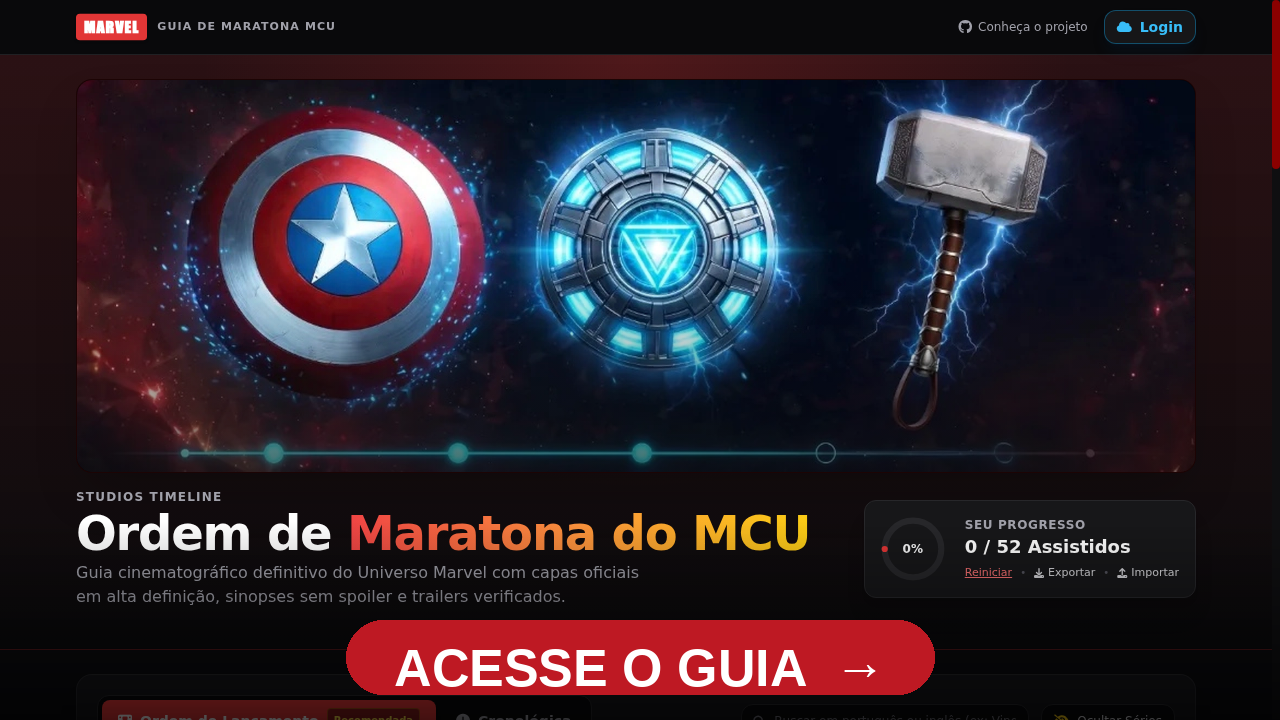
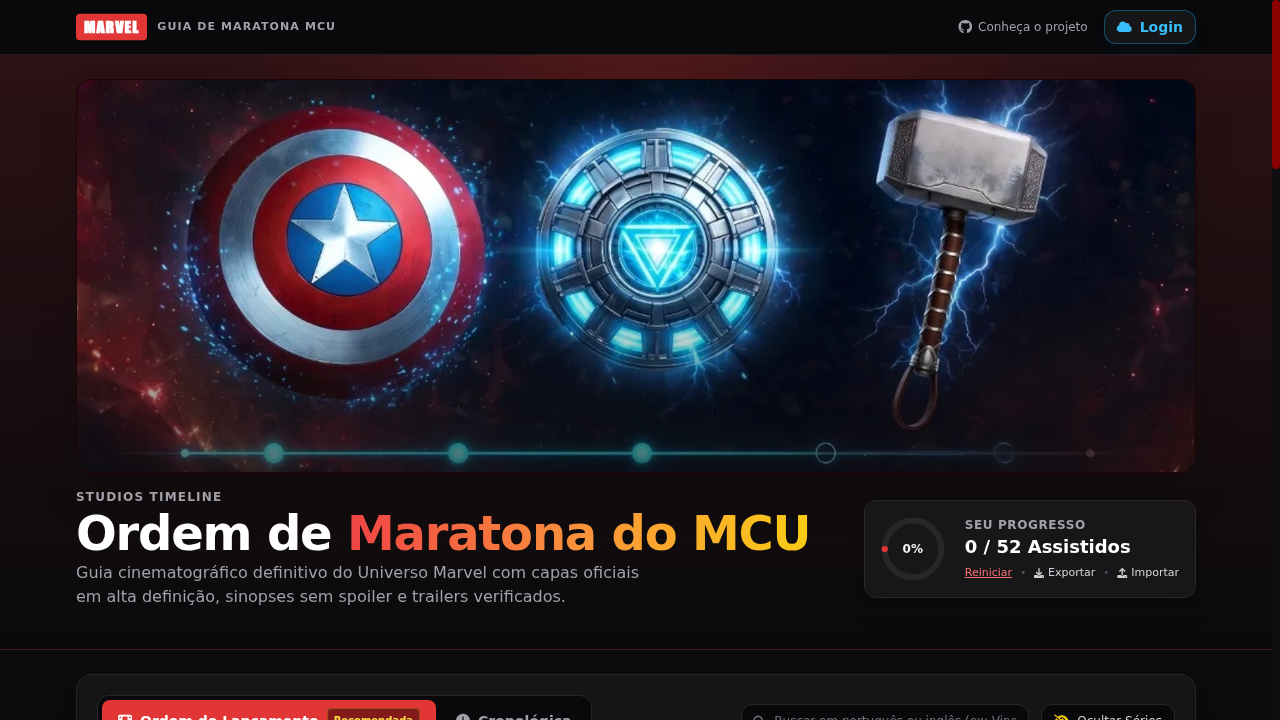
docs: use clean README preview screenshot with external link

Changed region(s): [[0.0625, 0.7944, 0.7812, 1.0], [0.8125, 0.9778, 0.9062, 1.0]]

diff --git a/docs/dev-docs/devlog/step_08_readme_showcase_and_hulk_fix.md b/docs/dev-docs/devlog/step_08_readme_showcase_and_hulk_fix.md
@@ -24,7 +24,7 @@
 **File:** `README.md`
 
 - Complete rewrite inspired by top-tier GitHub project READMEs
-- Added live-site screenshot `docs/assets/readme-preview.png` as a clickable link to `https://flou-ainan.github.io/mcu-guide/` with "ACESSE O GUIA →" CTA overlay
+- Added clean live-site screenshot `docs/assets/readme-preview.png` as a clickable link to `https://flou-ainan.github.io/mcu-guide/`, followed by an external clickable text link (`🌐 Acesse o Guia →`) below the image
 - Added shields.io badges (MCU, GitHub Pages live, 52 Titles, Offline First/Supabase)
 - Full feature table covering all Step 01–07 features
 - Content breakdown (52 titles, 37 movies, 15 series, post-credits timestamps)
@@ -39,10 +39,8 @@
 **File:** `docs/assets/readme-preview.png`
 
 - Captured live site at `https://flou-ainan.github.io/mcu-guide/` via headless Chrome → `/tmp/raw_site.png` (1280×1040px)
-- Cropped and resized to 1280×720px with Pillow
-- Applied dark vignette gradient at the bottom 200px
-- Composited red MCU-style pill CTA with text "🛡 ACESSE O GUIA →" (LiberationSans-Bold, 52pt, white on #be1923)
-- Saved to `docs/assets/readme-preview.png` (641KB)
+- Cropped and resized to a clean 1280×720px screenshot with Pillow (no badge or text overlay inside the image)
+- Saved to `docs/assets/readme-preview.png` (~618KB)
 
 ---
 
@@ -53,7 +51,7 @@
 | `mcu_data.json` | Hulk `post_credits`: count 0→1, added scene + corrected note |
 | `data.js` | Same as above (offline fallback bundle) |
 | `README.md` | Complete overhaul with live preview image |
-| `docs/assets/readme-preview.png` | New: 1280×720 screenshot with CTA overlay |
+| `docs/assets/readme-preview.png` | New: clean 1280×720 screenshot (no overlay) |
 | `docs/dev-docs/devlog/step_08_readme_showcase_and_hulk_fix.md` | This file |
 
 ---

diff --git a/docs/PROJECT.md b/docs/PROJECT.md
@@ -69,9 +69,10 @@ Interactive chronological and release guide for Marvel Cinematic Universe movies
 | `privacy.html` | 125 | Privacy Policy page for Google OAuth compliance and user transparency |
 | `terms.html` | 113 | Terms of Service page |
 | `scraper.py` | 1092 | Python scraper for IMDb covers, YouTube trailers, Cinemeta series episodes + thumbnails, preserving researched `post_credits` data |
-| `data.js` | 3472 | Generated JavaScript fallback bundle containing `window.__MCU_FALLBACK_DATA__` (including movie `post_credits`) |
-| `mcu_data.json` | 3471 | Source JSON representation of 52 MCU titles (all 37 movies with `post_credits`) + 152 scraped series episodes |
-| `README.md` | 51 | Repository presentation and deployment details |
+| `data.js` | 3477 | Generated JavaScript fallback bundle containing `window.__MCU_FALLBACK_DATA__` (including movie `post_credits`) |
+| `mcu_data.json` | 3476 | Source JSON representation of 52 MCU titles (all 37 movies with `post_credits`) + 152 scraped series episodes |
+| `README.md` | 166 | Showcase repository presentation with clickable clean live preview and external link |
+| `docs/assets/readme-preview.png` | - | Clean 1280x720 desktop screenshot of live site for `README.md` |
 | `robots.txt` | 5 | Crawler directive allowing TelegramBot and social media link previews |
 | `hero-banner.webp` | - | High-res (2048x718) MCU collage banner |
 | `og-image-1200x630.jpg` | - | Standard OpenGraph social preview image |

diff --git a/README.md b/README.md
@@ -1,4 +1,4 @@
-## -----------------------------------------------------------------------------------------
+## ----
 
 <div align="center">
 
@@ -14,7 +14,9 @@
 
 <br>
 
-[![Acesse o Guia](docs/assets/readme-preview.png)](https://flou-ainan.github.io/mcu-guide/)
+[![Guia de Maratona MCU](docs/assets/readme-preview.png)](https://flou-ainan.github.io/mcu-guide/)
+
+**[🌐 Acesse o Guia →](https://flou-ainan.github.io/mcu-guide/)**
 
 </div>
 
